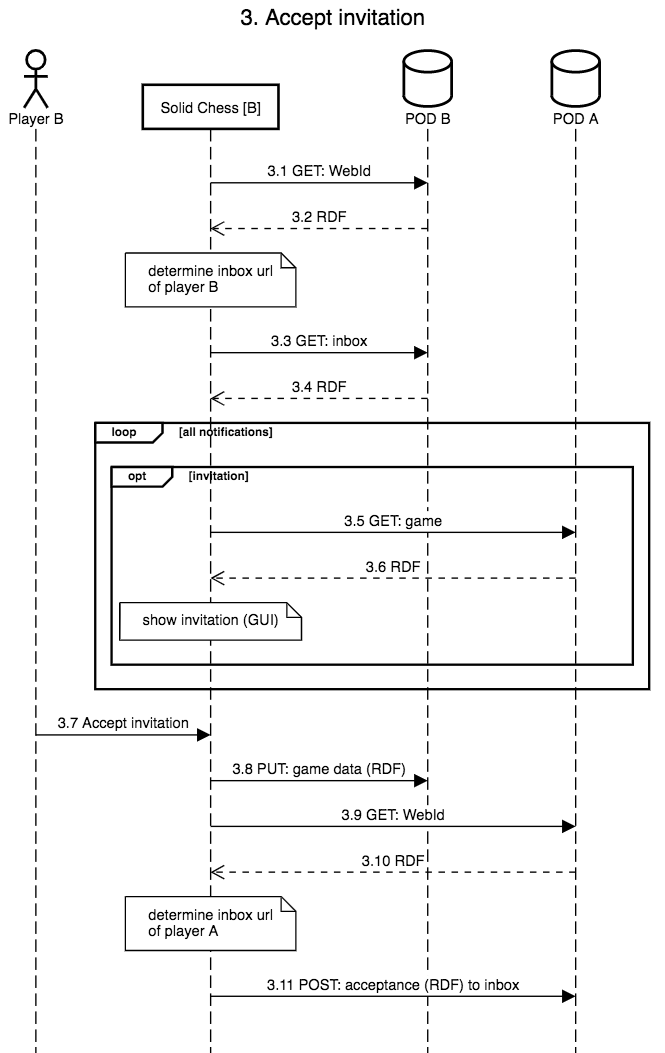
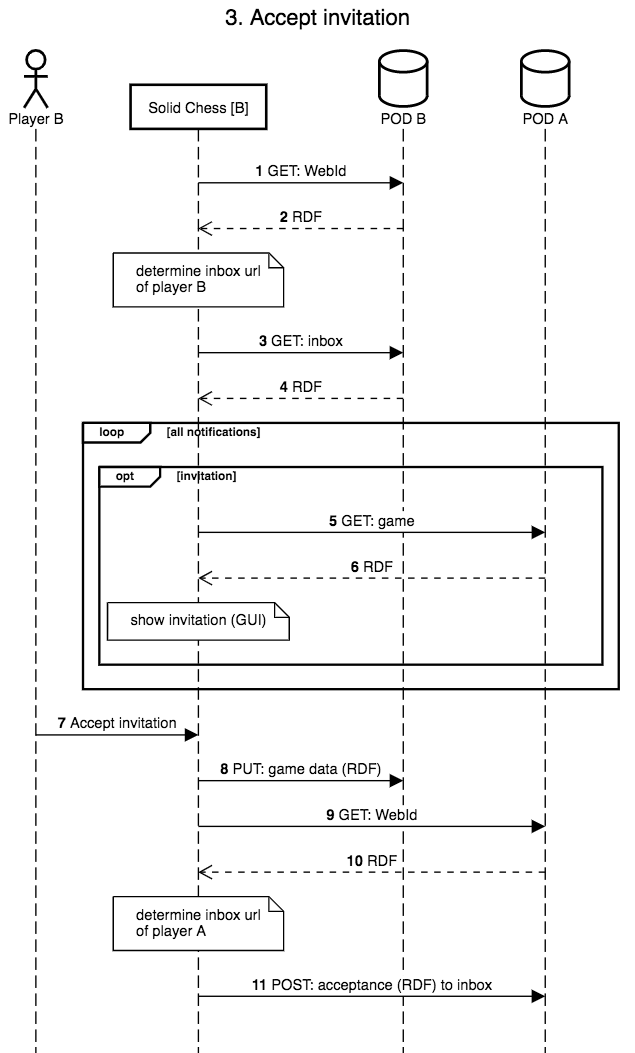
update interaction text + figures

diff --git a/interaction-with-pods.md b/interaction-with-pods.md
@@ -1,0 +1,63 @@
+# How Solid Chess interacts with Solid PODs
+
+We discuss how Solid Chess interacts with the different Solid PODs of the players.
+In our example, we have two players, A and B, and have a closer look at the following four steps:
+
+1. Player A sets up a new game
+2. Player A invites a friend (player B) to join the game
+3. Player B accepts the invitation
+4. Player A does a move
+
+## Set up game
+
+![Set up game](./diagrams/set-up-game.png)
+
+Player A is logged in and has the application loaded (Solid Chess [A]).
+We need some details to set up a new chess game.
+One of these things is the friends of Player A.
+That way, he can select against who he wants to play.
+First, we do a GET of the WebId of Player A (see Fig. 1.1).
+Note that we know the WebId of Player A, because he logged into his POD.
+The response of the GET is an RDF document which contains the WebIds of Player A's friends (see Fig. 1.2).
+Next, Player A selects the desired friend (see Fig. 1.3).
+Finally, we store the game data (RDF) on the POD of Player A (POD A) (see Fig. 1.4).
+
+## Invite friend to join game
+
+![Invite friend](./diagrams/invite-frined.png)
+
+After the game is set up, we need to send an invitation to our friend, Player B, to join the game.
+This is done by sending a notification to the inbox of Player B.
+Therefore, we do a GET of the WebId of Player B (see Fig. 2.1).
+The response of the GET is an RDF document which contains the url of the inbox of Player B (see Fig. 2.2).
+We send an invitation (RDF) to the inbox via a POST (see Fig. 2.3).
+
+## Accept invitation
+
+![Accept invitation](./diagrams/accept-invitation.png)
+
+Player B opens a chess application, which does not need be the same one as Player A.
+We need to find out if any invitation for a chess game arrived.
+We only know the WebId of Player B, because he logged into his POD.
+Therefore, again we do a GET of this WebId (see Fig. 3.1) and inspect the returned RDF (see Fig. 3.2) to find the inbox.
+We do a GET of the inbox (see Fig. 3.3) and an iterate over all notifications which can be found in the returned RDF (see Fig. 3.4).
+If we encounter an invitation, we do a GET of the url of the game to fetch the details (RDF) of the game (see Fig. 3.5 and 3.6).
+We show every invitation in the application.
+Player B decides to accept the invitation.
+We store the relevant game data also on the POD of Player B (POD B) (see Fig. 3.8).
+Next, we want to let Player A know that Player B accepted the invitation.
+Therefore, we need to send a notification to the inbox of Player A (see Fig. 3.9 - 3.11).
+This is similar to sending an invitation to Player B.
+
+## Do move
+
+![Do move](./diagrams/do-move.png)
+
+After Player A saw that Player B accepted his invitation, he does his first move (see Fig. 4.1).
+We need store this new move on our POD (see Fig. 4.2).
+Next, we need to notify Player B that a new move has been made.
+Therefore, we send a notification to his inbox (see Fig. 4.3).
+The new move needs to be shown in the application.
+We get all notifications in the inbox (see Fig. 4.4 and 4.5) and iterate over them.
+If we encounter a notification of a new move, we get the details (RDF) of the move (see Fig. 4.6 and 4.7).
+The chessboard is updated with the new move.
